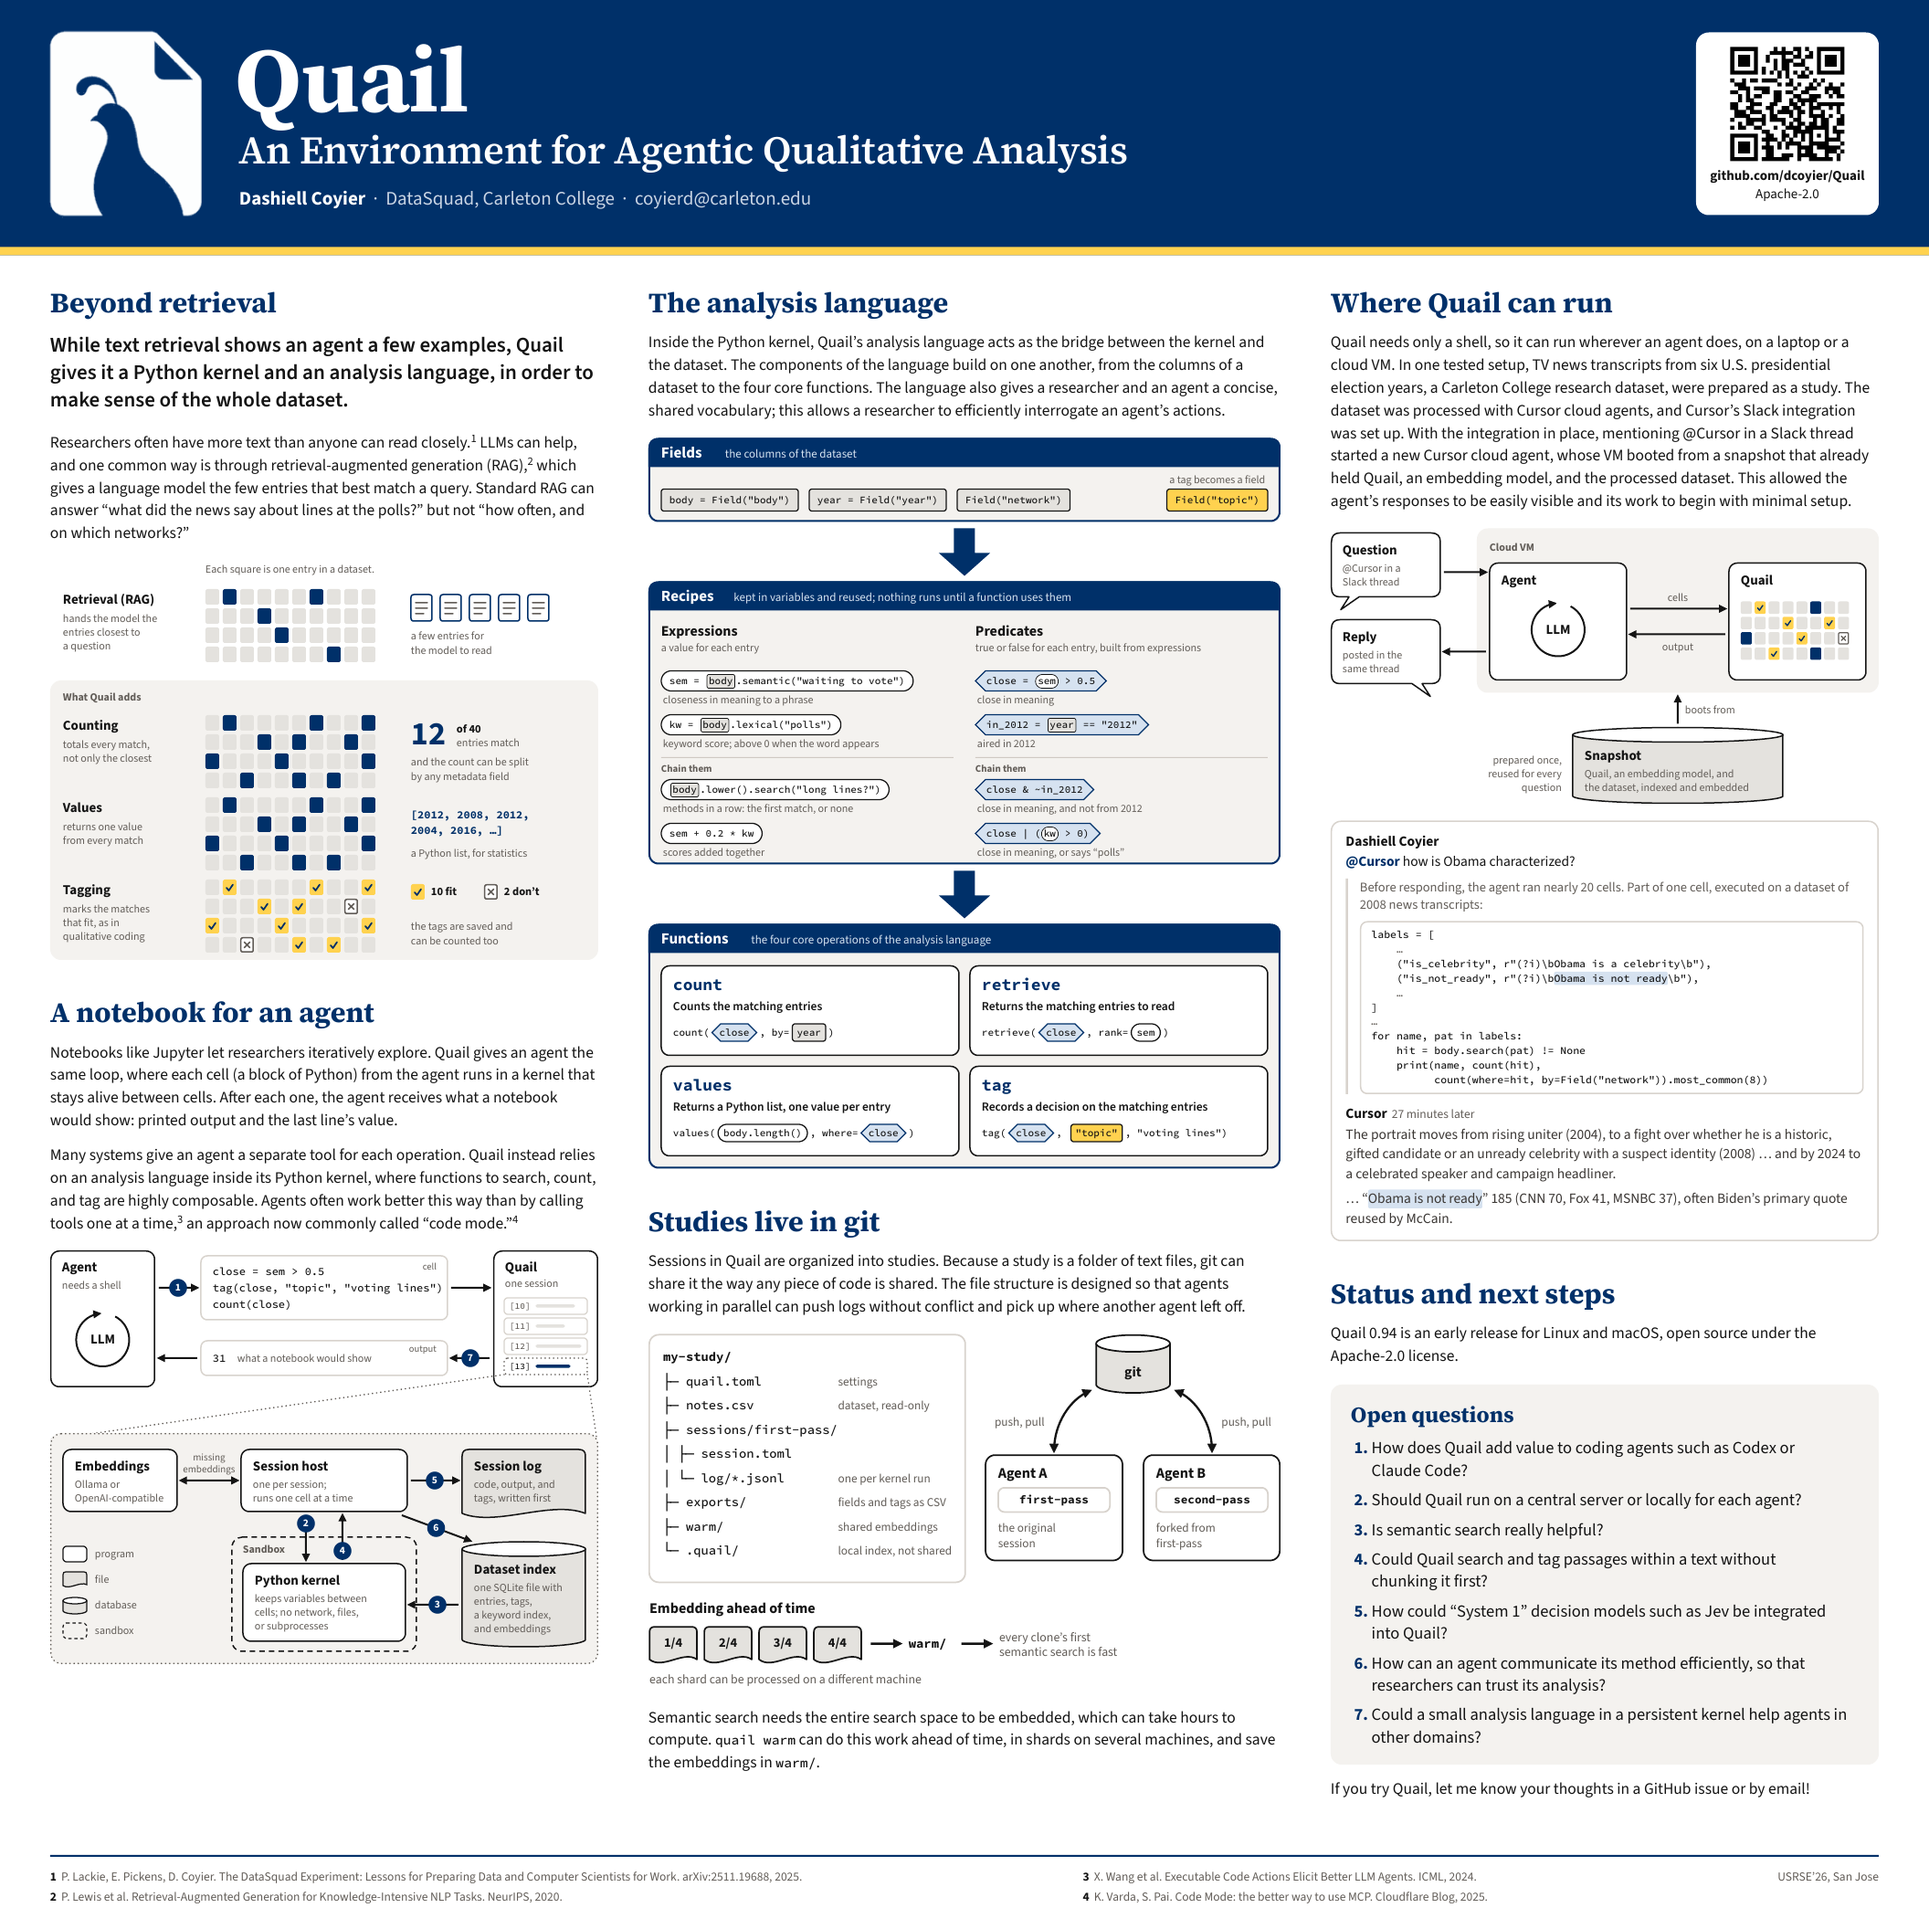
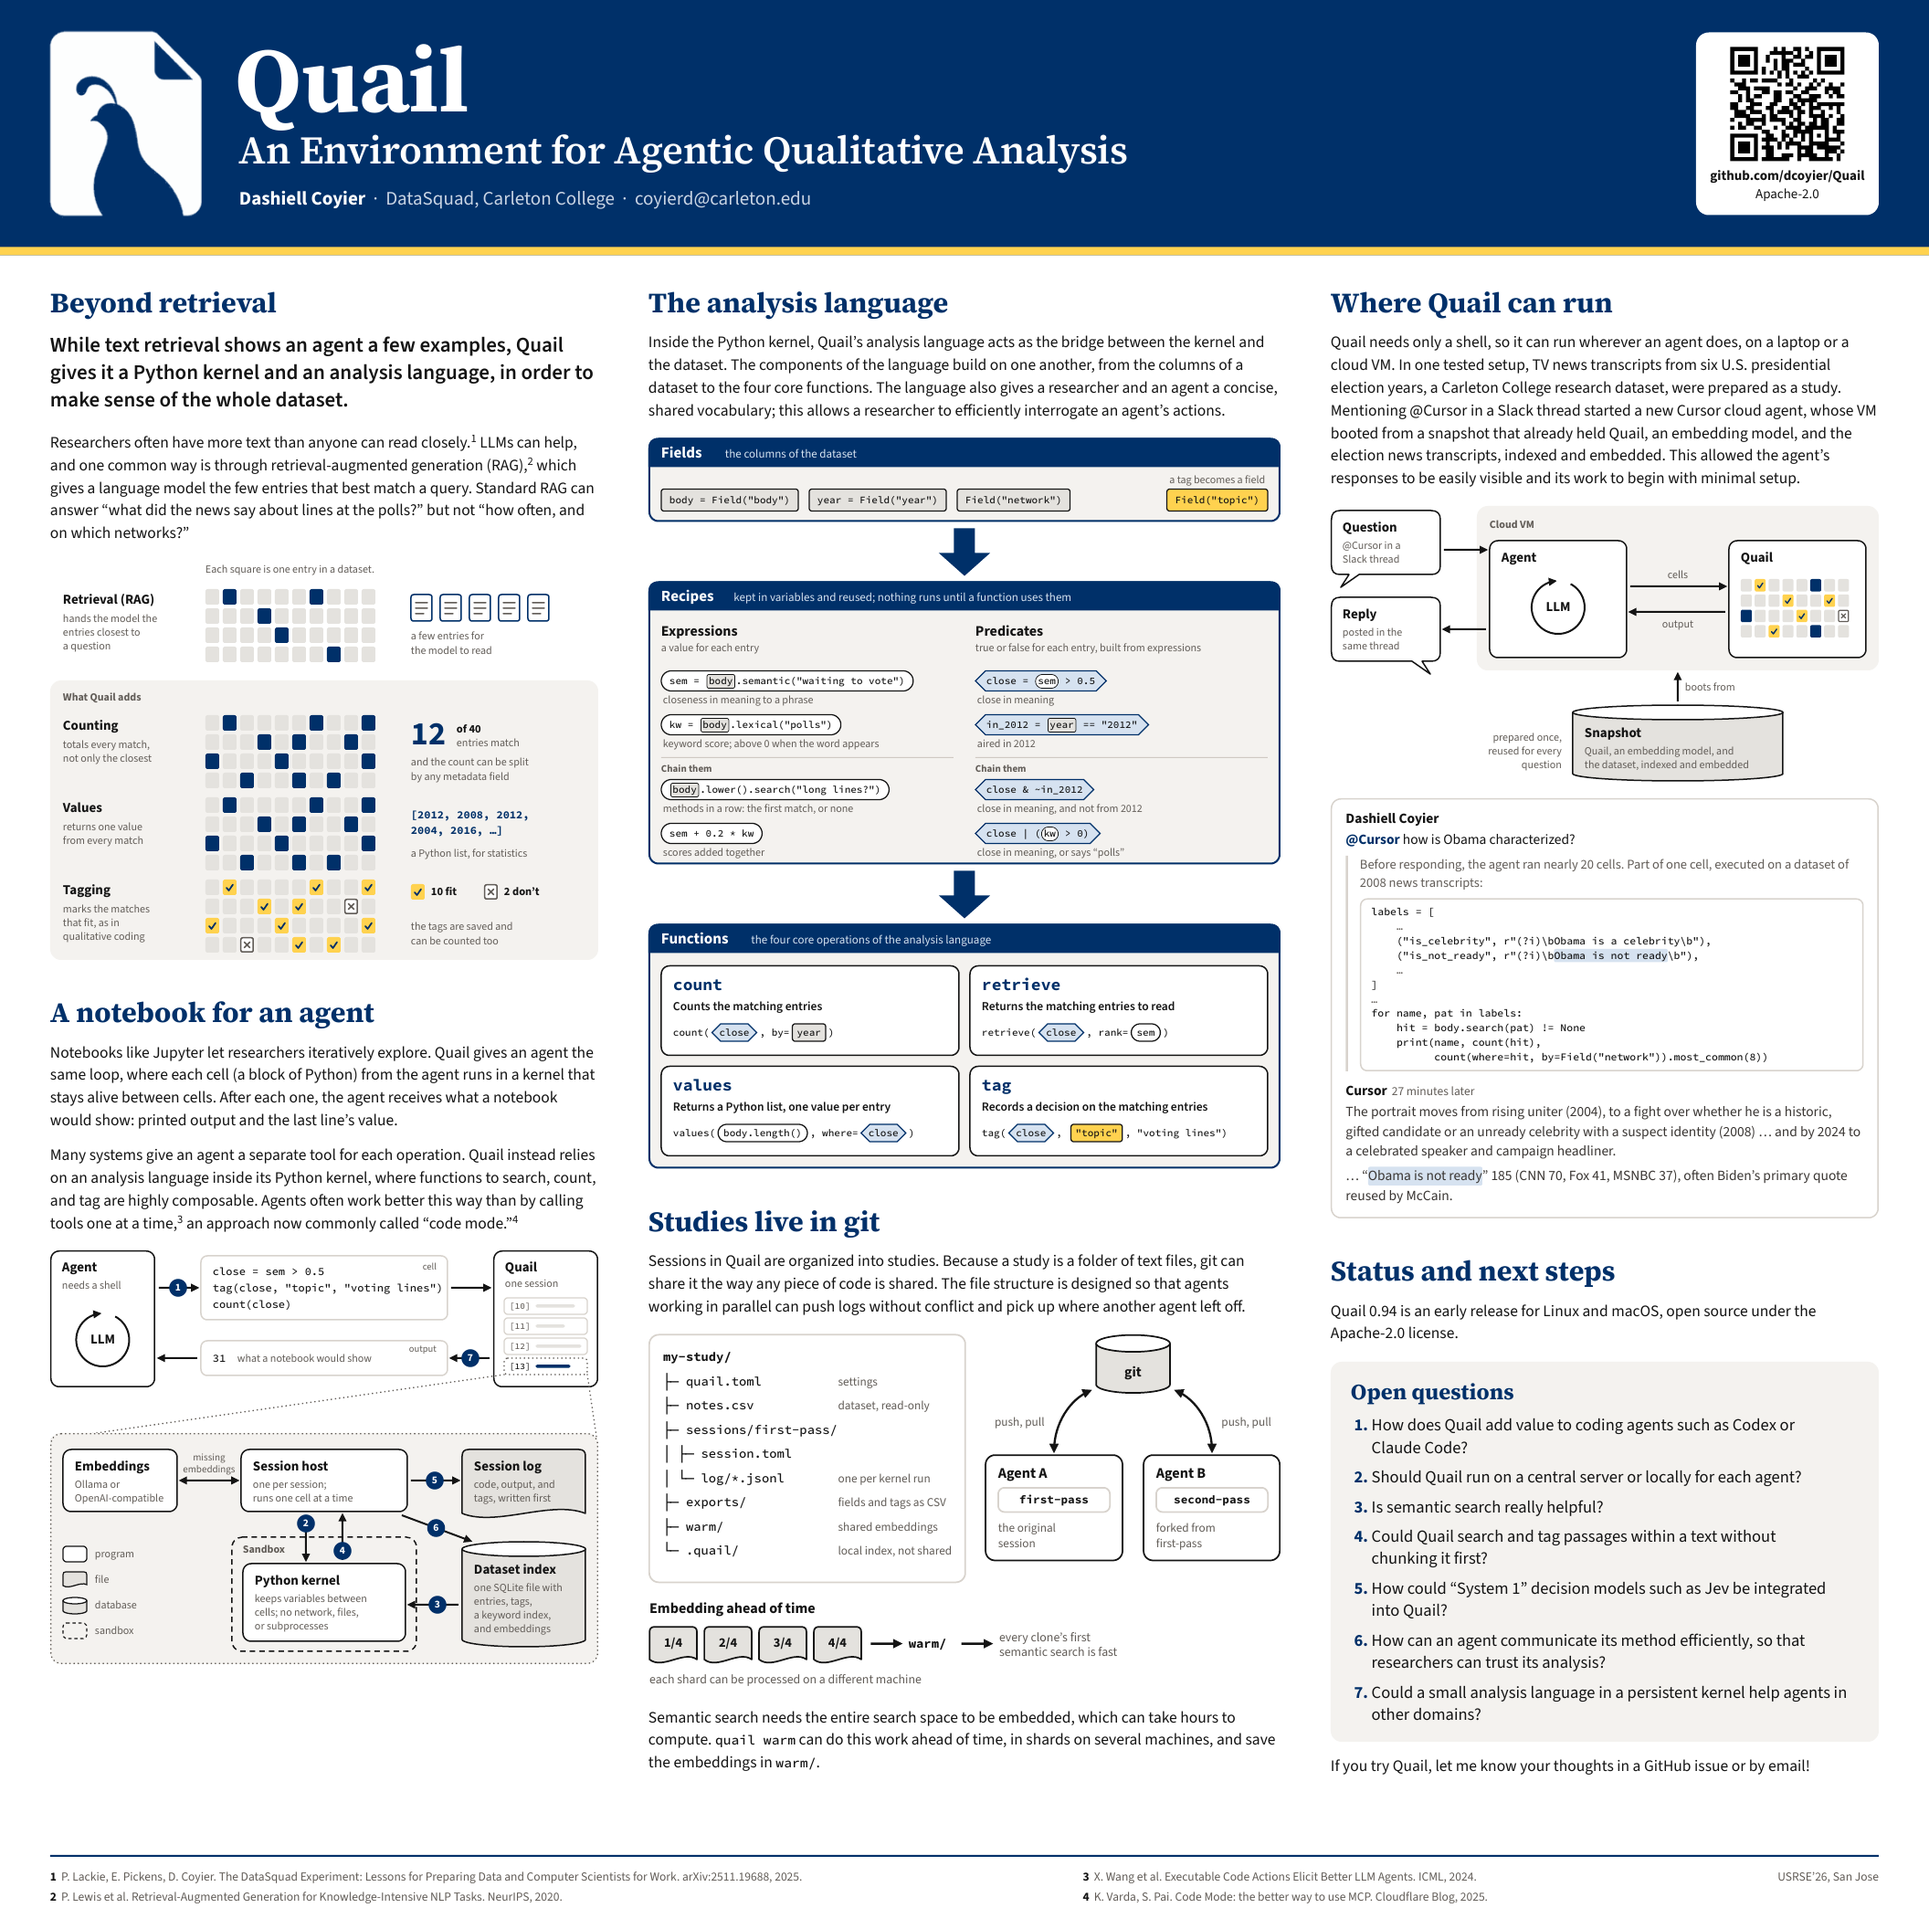
Shorten the setup sentences in "Where Quail can run"
Drop the Cursor processing and Slack-integration clauses, and name the
snapshot's dataset as the election news transcripts.

Claude-Session: https://claude.ai/code/session_01ChZ8DmmKvsKSV4JFVieZLU

Changed region(s): [[0.6875, 0.1875, 0.9688, 0.9375]]

diff --git a/poster/poster.html b/poster/poster.html
@@ -61,7 +61,7 @@
 
 <section id="where">
   <h2>Where Quail can run</h2>
-  <p>Quail needs only a shell, so it can run wherever an agent does, on a laptop or a cloud VM. In one tested setup, TV news transcripts from six U.S. presidential election years, a Carleton College research dataset, were prepared as a study. The dataset was processed with Cursor cloud agents, and Cursor&rsquo;s Slack integration was set up. With the integration in place, mentioning @Cursor in a Slack thread started a new Cursor cloud agent, whose VM booted from a snapshot that already held Quail, an embedding model, and the processed dataset. This allowed the agent&rsquo;s responses to be easily visible and its work to begin with minimal setup.</p>
+  <p>Quail needs only a shell, so it can run wherever an agent does, on a laptop or a cloud VM. In one tested setup, TV news transcripts from six U.S. presidential election years, a Carleton College research dataset, were prepared as a study. Mentioning @Cursor in a Slack thread started a new Cursor cloud agent, whose VM booted from a snapshot that already held Quail, an embedding model, and the election news transcripts, indexed and embedded. This allowed the agent&rsquo;s responses to be easily visible and its work to begin with minimal setup.</p>
   <figure><img src="figures/deploy.svg" alt="A question in Slack starts a cloud VM that boots from a snapshot holding Quail, an embedding model and the dataset, indexed and embedded; on the VM the agent sends cells to Quail, reads their output and posts its reply in the same thread"></figure>
   <div class="thread">
     <div><span class="who">Dashiell Coyier</span></div>
